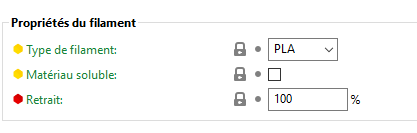
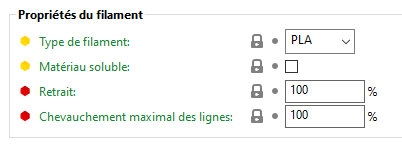
add filament parameters

Changed region(s): [[0.0, 0.0602, 1.0, 0.9323], [0.8955, 0.7519, 0.9552, 0.812], [0.8358, 0.2406, 0.8955, 0.3008]]

diff --git a/src/filament_settings/filament_settings.md b/src/filament_settings/filament_settings.md
@@ -90,6 +90,13 @@ Entrez le pourcentage de retrait que le filament aura après refroidissement (94
 
 Veillez à laisser suffisamment d'espace entre les objets, car cette compensation se fait après les vérifications.
 
+#### *[Chevauchement maximal des lignes](../variable/filament_max_overlap.md)*
+
+Ce paramètre garantit que tous les chevauchements ne sont pas supérieurs à cette valeur.
+
+Ceci est utile pour les filaments trop visqueux, car la ligne ne peut pas passer sous la précédente.
+
+
 ### Contournement de la vitesse d’impression
 
 #### *[Vitesse maximale](../variable/filament_max_speed.md)*
@@ -376,6 +383,10 @@ Paramètres de gestion personnalisés de la **Rétraction**.
 
 ![Image : Paramètres pour la rétraction](./images/018.png)
 
+#### *[Quantité de rétraction avant essuyage](../variable/filament_retract_before_wipe.md)*
+
+Avec les extrudeuses de type bowden, il est conseillé d'effectuer une rétractation rapide avant de réaliser le mouvement de purge.
+
 #### *[Longueur](../variable/filament_retract_length.md)*
 
 Lorsque la rétraction est déclenchée avant un changement d'outil, le filament est retiré de la longueur indiquée (la longueur est mesurée sur le filament brut, avant qu'il entre dans l'extrudeur).
@@ -411,6 +422,10 @@ La rétraction n'est pas déclenchée lorsque les déplacements sont plus courts
 #### *[Rétracter lors des changements de couche](../variable/filament_retract_layer_change.md)*
 
 Cette option active la rétraction lors d'un déplacement sur l'axe Z.
+
+#### *[Espace de jointure](../variable/filament_seam_gap.md)*
+
+Pour éviter une couture visible , l'extrusion peut être arrêtée un peu avant la fin de la boucle.
 
 #### *[Essuyer lors des rétractions](../variable/filament_retract_before_wipe.md)*
 

diff --git a/src/variable/filament_wipe_inside_end.md b/src/variable/filament_wipe_inside_end.md
@@ -1,0 +1,16 @@
+# filament_wipe_inside_end
+
+* Technologie : FDM
+* Groupe : [Réglages du Filament](../filament_settings/filament_settings.md)
+* Sous groupe : [Rétractions de Filament](../filament_settings/filament_settings.md#rétractions-de-filament)
+* Mode : Avancé
+
+## Essuyer à la fin
+
+### Description
+
+Ce paramètre permet de nettoyer légèrment la buse après la fin de l'extrusion d'un périmètre extérieur en la déplacant vers l'intérieur de la pièce. L'essuyage supplémentaire  est d'abord exécuté (wipe_extra_perimeter), puis celui-ci et enfin l'essuyage dûe à la rétraction du filament.
+
+A noter que si ce paramètre est désactivé, l'essuyage de la rétraction suivra la ligne centrale du périmètre extérieur, et pas la ligne virtuelle qui part de la fin de cet essuyage.
+
+[Retour Liste variables](variable_list.md)

diff --git a/src/variable/filament_seam_gap.md b/src/variable/filament_seam_gap.md
@@ -1,16 +1,18 @@
-# filament_retract_before_wipe
+# filament_seam_gap
 
 * Technologie : FDM
 * Groupe : [Réglages du Filament](../filament_settings/filament_settings.md)
 * Sous groupe : [Rétractions de Filament](../filament_settings/filament_settings.md#rétractions-de-filament)
-* Mode : Avancé
+* Mode : Expert
 
-## Quantité de rétraction avant essuyage
+## Espace de jointure
 
 ### Description
 
-Avec les extrudeuses de type bowden, il est conseillé d'effectuer une rétractation rapide avant de réaliser le mouvement de purge.
+Pour éviter une couture visible , l'extrusion peut être arrêtée un peu avant la fin de la boucle.
 
-Valeur exprimée en %
+Peut être exprimé en mm ou en  %.
+
+Valeur par défaut : 15 %
 
 [Retour Liste variables](variable_list.md)

diff --git a/src/variable/filament_wipe_inside_start.md b/src/variable/filament_wipe_inside_start.md
@@ -1,0 +1,15 @@
+# filament_wipe_inside_start
+
+* Technologie : FDM
+* Groupe : [Réglages du Filament](../filament_settings/filament_settings.md)
+* Sous groupe : [Rétractions de Filament](../filament_settings/filament_settings.md#rétractions-de-filament)
+* Mode : Avancé
+
+## Essuyer au démarrage
+
+### Description
+
+Avant de commencer l'extrusion d'un périmètre extérieur, cet option permet de placer la buse un peu à l'intérieur de l'objet et un peu en avance de la jointure avant de dérétracter le filament. 
+La buse se déplacera ensuiteà la position de la jointure.
+
+[Retour Liste variables](variable_list.md)

diff --git a/src/variable/filament_max_overlap.md b/src/variable/filament_max_overlap.md
@@ -9,7 +9,7 @@
 
 ### Chevauvement maximal des lignes
 
-Ce paramètre garantit que tous les chevauchementsne sont pas supérieurs à cette valeur.
+Ce paramètre garantit que tous les chevauchements ne sont pas supérieurs à cette valeur.
 
 Ceci est utile pour les filaments trop visqueux, car la ligne ne peut pas passer sous la précédente.
 
